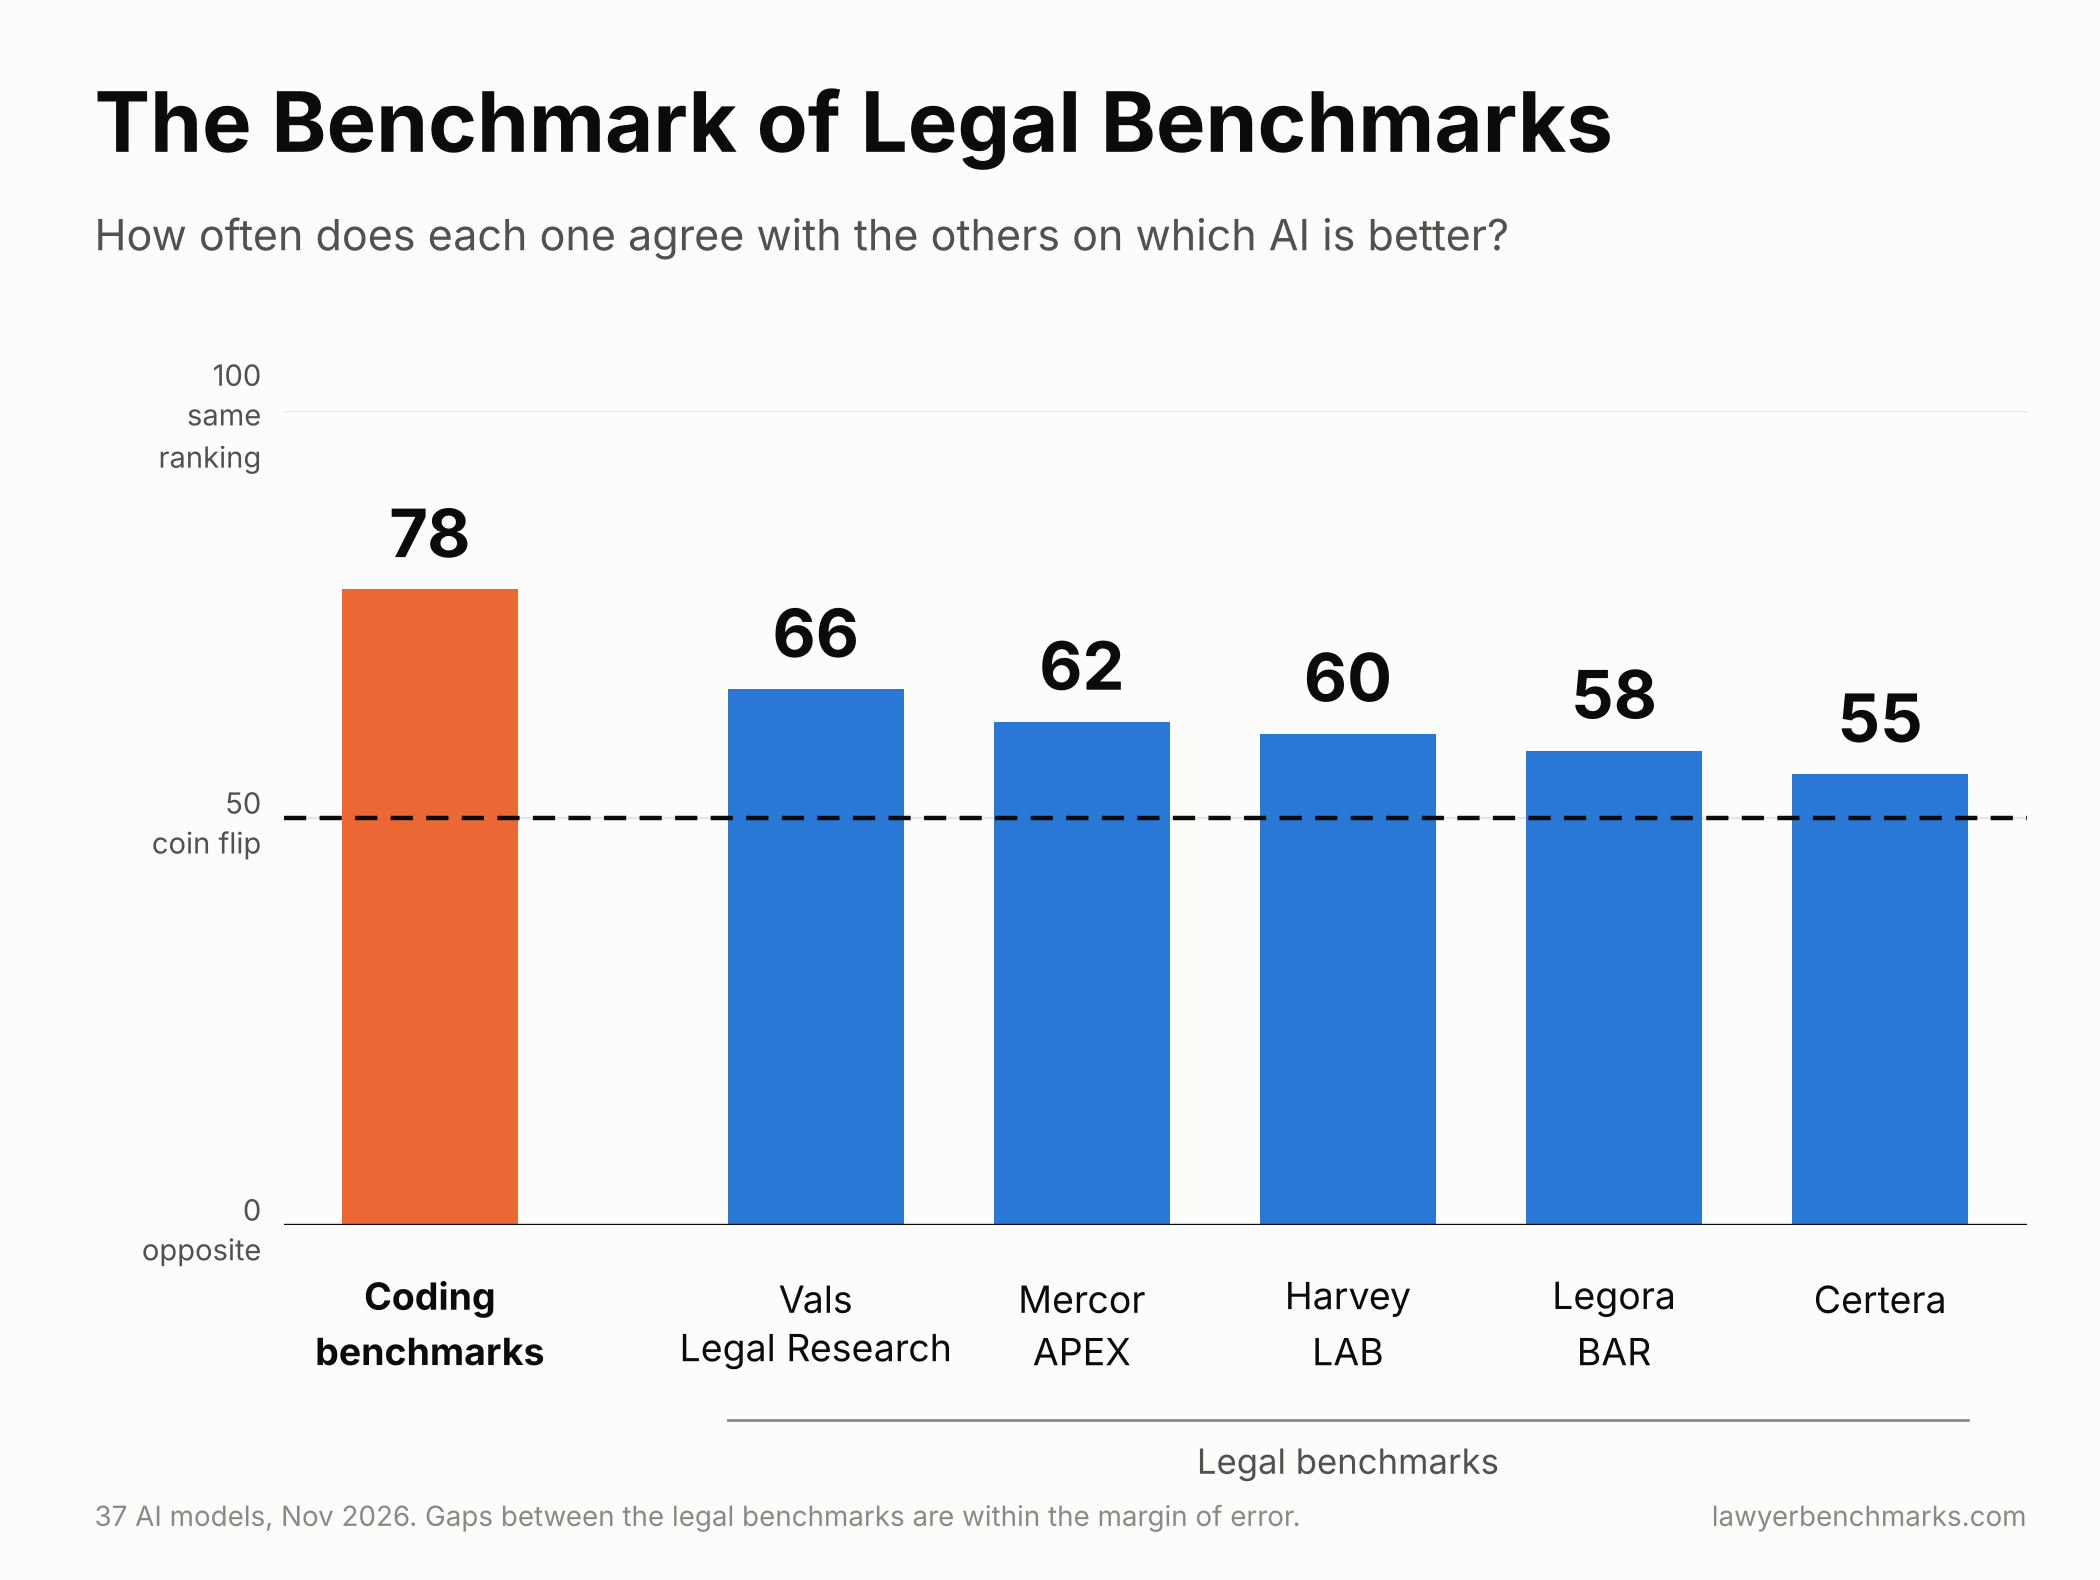
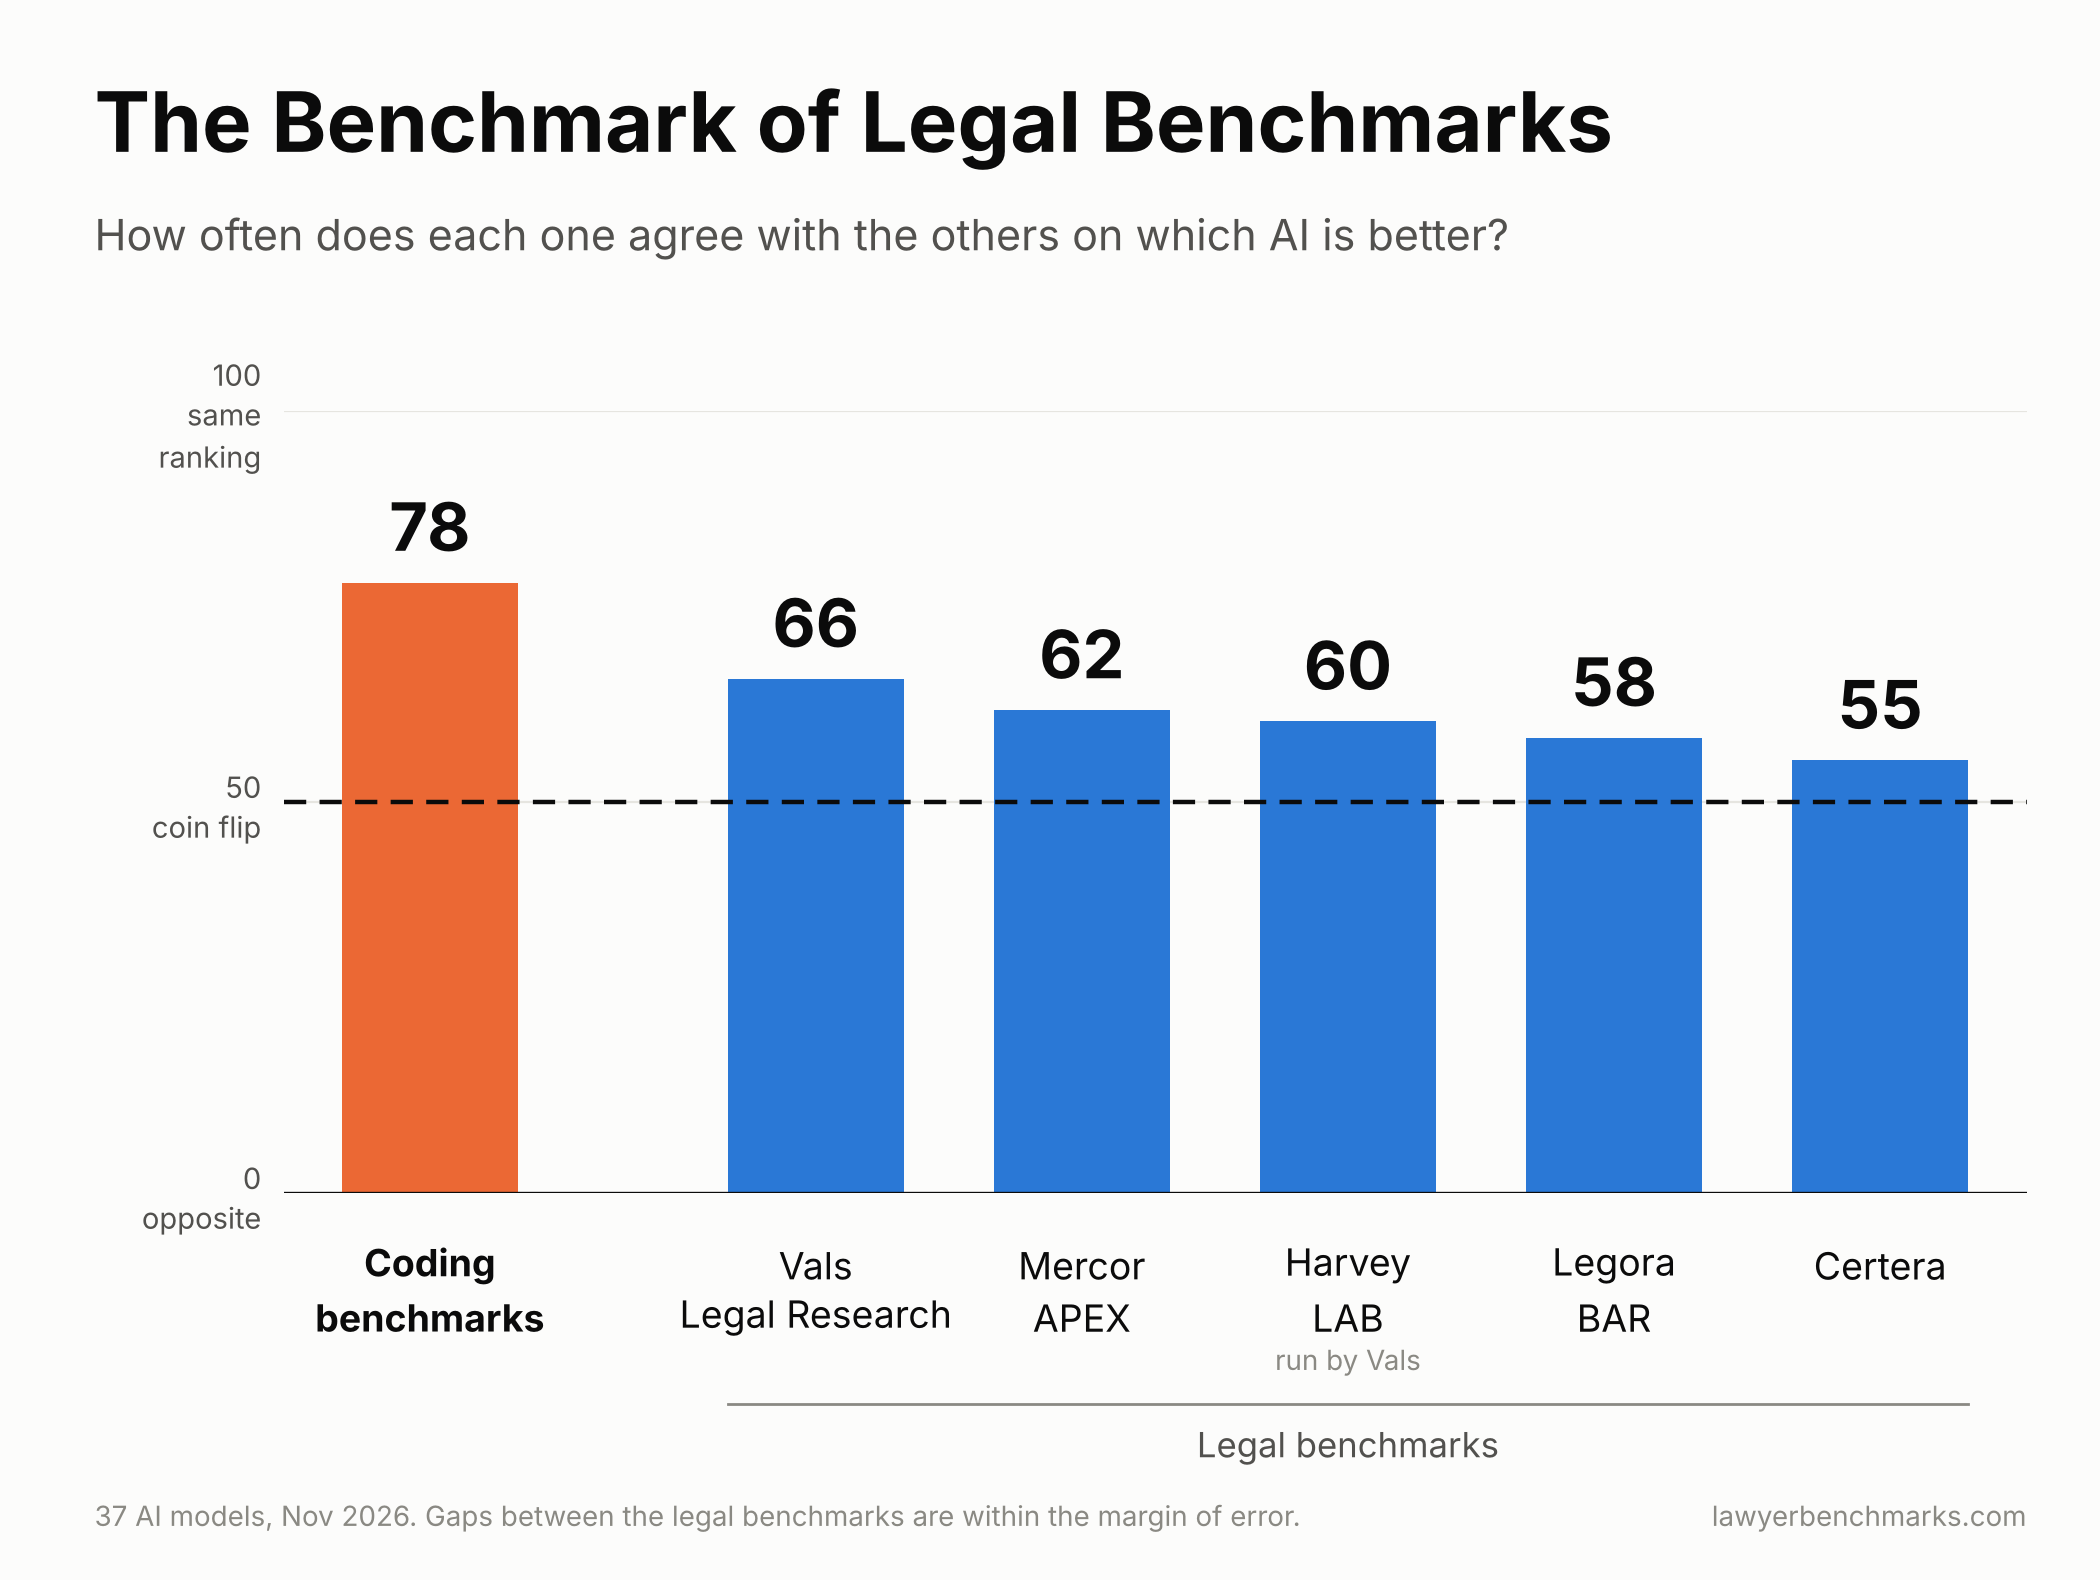
Benchmark agreement draft: label whose run of LAB is used, add run-sensitivity checks
Claude-Session: https://claude.ai/code/session_01TmipKRsNqkBmauKHC5vEDZ

diff --git a/benchmark-agreement/scripts/leaderboard2.py b/benchmark-agreement/scripts/leaderboard2.py
@@ -7,14 +7,15 @@ NAME={'Vals Legal Research':'Vals\nLegal Research','Mercor APEX law':'Mercor\nAP
 legal=sorted(C['per_legal'].items(),key=lambda kv:-kv[1])
 bars=[('Coding\nbenchmarks',C['coding'][1]*100,ORANGE)]+[(NAME[k],v*100,BLUE) for k,v in legal]
 fig,ax=plt.subplots(figsize=(10.5,7.9),dpi=200); fig.patch.set_facecolor(SURF); ax.set_facecolor(SURF)
-plt.subplots_adjust(left=0.135,right=0.965,top=0.74,bottom=0.225)
+plt.subplots_adjust(left=0.135,right=0.965,top=0.74,bottom=0.245)
 xs=[0]+[1.45+i for i in range(len(legal))]
 for x,(lab,v,col) in zip(xs,bars):
     ax.bar(x,v,width=0.66,color=col,zorder=3,linewidth=0)
     ax.text(x,v+2,f"{v:.0f}",ha='center',va='bottom',fontsize=24,color=INK,fontweight='bold',zorder=6)
     ax.text(x,-6,lab,ha='center',va='top',fontsize=13.5,color=INK,linespacing=1.15,fontweight='bold' if col==ORANGE else 'normal')
+    if lab.startswith('Harvey'): ax.text(x,-19.2,'run by Vals',ha='center',va='top',fontsize=10,color=MUTE)
 ax.axhline(50,color=INK,lw=1.6,ls=(0,(5,3)),zorder=5)
-ax.plot([1.45-0.33,1.45+4+0.33],[-24,-24],color=MUTE,lw=1,clip_on=False); ax.text(1.45+2,-26.5,'Legal benchmarks',ha='center',va='top',fontsize=12.5,color=SEC)
+ax.plot([1.45-0.33,1.45+4+0.33],[-27,-27],color=MUTE,lw=1,clip_on=False); ax.text(1.45+2,-29.5,'Legal benchmarks',ha='center',va='top',fontsize=12.5,color=SEC)
 ax.set_xlim(-0.55,xs[-1]+0.55); ax.set_ylim(0,100)
 ax.set_yticks([0,50,100]); ax.set_yticklabels(['0\nopposite','50\ncoin flip','100\nsame\nranking'],fontsize=10.5,color=SEC,linespacing=1.2); ax.tick_params(axis='y',length=0,pad=8); ax.set_xticks([])
 for s in ax.spines.values(): s.set_visible(False)

diff --git a/benchmark-agreement/README.md b/benchmark-agreement/README.md
@@ -24,7 +24,7 @@ Legal benchmarks do agree more often than chance. They agree less than coding be
 |---|---|---|---|---|---|
 | Legal Research Bench | Vals | 37 | Gemini 4 Carbon | 66% | 56% to 75% |
 | APEX-Agents, corporate law | Mercor | 29 | GPT-6 Astra | 62% | 52% to 72% |
-| LAB (Vals' run) | Harvey | 37 | Gemini 4 Argon | 60% | 49% to 71% |
+| LAB (Vals' run; Harvey's own published results cover only older models) | Harvey | 37 | Gemini 4 Argon | 60% | 49% to 71% |
 | BAR | Legora | 15 | Claude Opus 5.5 | 58% | 42% to 72% |
 | Legal AI Leaderboard | Certera | 23 | GPT-6.1 Sol | 55% | 45% to 68% |
 
@@ -72,6 +72,18 @@ With all twelve legal benchmarks that had current models, the median rank correl
 | All models any source tested, not just the 37 | 0.30 | 0.77 | 0.47 |
 | Only pairings sharing 15 or more models | 0.30 | 0.72 | 0.43 |
 | Leaving out any one legal benchmark | 0.18 to 0.35 | 0.72 | 0.37 to 0.54 |
+
+On the agreement-share measure:
+
+| Check | Legal | Coding |
+|---|---|---|
+| Main result | 60% | 78% |
+| Harvey LAB taken from Mercor's run instead of Vals' | 59% | 78% |
+| Harvey LAB taken from Artificial Analysis' run, ungated | 60% | 78% |
+| Harvey LAB taken from Artificial Analysis' run, hallucination-gated | 61% | 78% |
+| Pairings run by the same evaluator | 75% (1 pairing) | 78% (16 pairings) |
+| Pairings run by different evaluators | 59% (9 pairings) | 78% (12 pairings) |
+| Only Harvey LAB, Vals Legal Research and Mercor APEX | 67% | 78% |
 
 ## Limits
 
